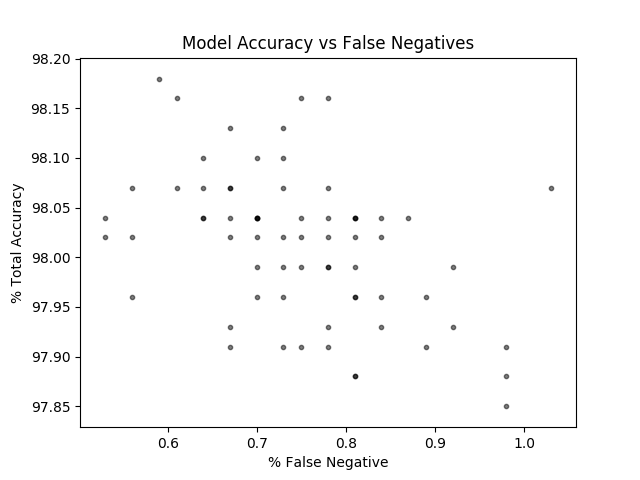
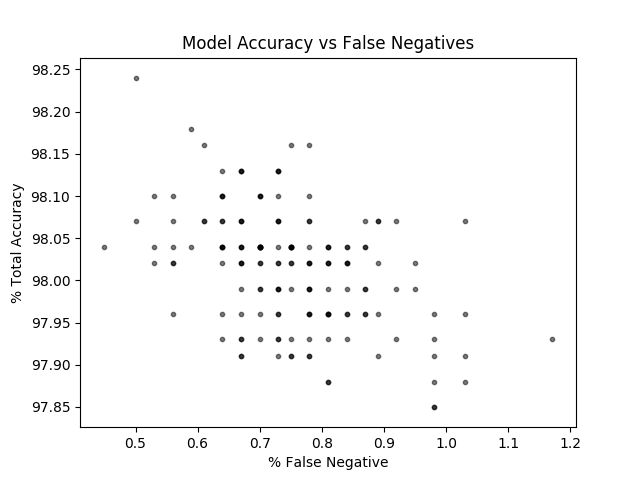
Lowered batch size, updated model accuracy graph

diff --git a/main.py b/main.py
@@ -1,8 +1,8 @@
 import classifier_library as cl
 
 
-#for i in range(1, 200):
-    #cl.createClassifier(5)
+for i in range(1, 10):
+    cl.createClassifier(5)
 
 cl.model_rename()
 cl.filter_by_accuracy()
